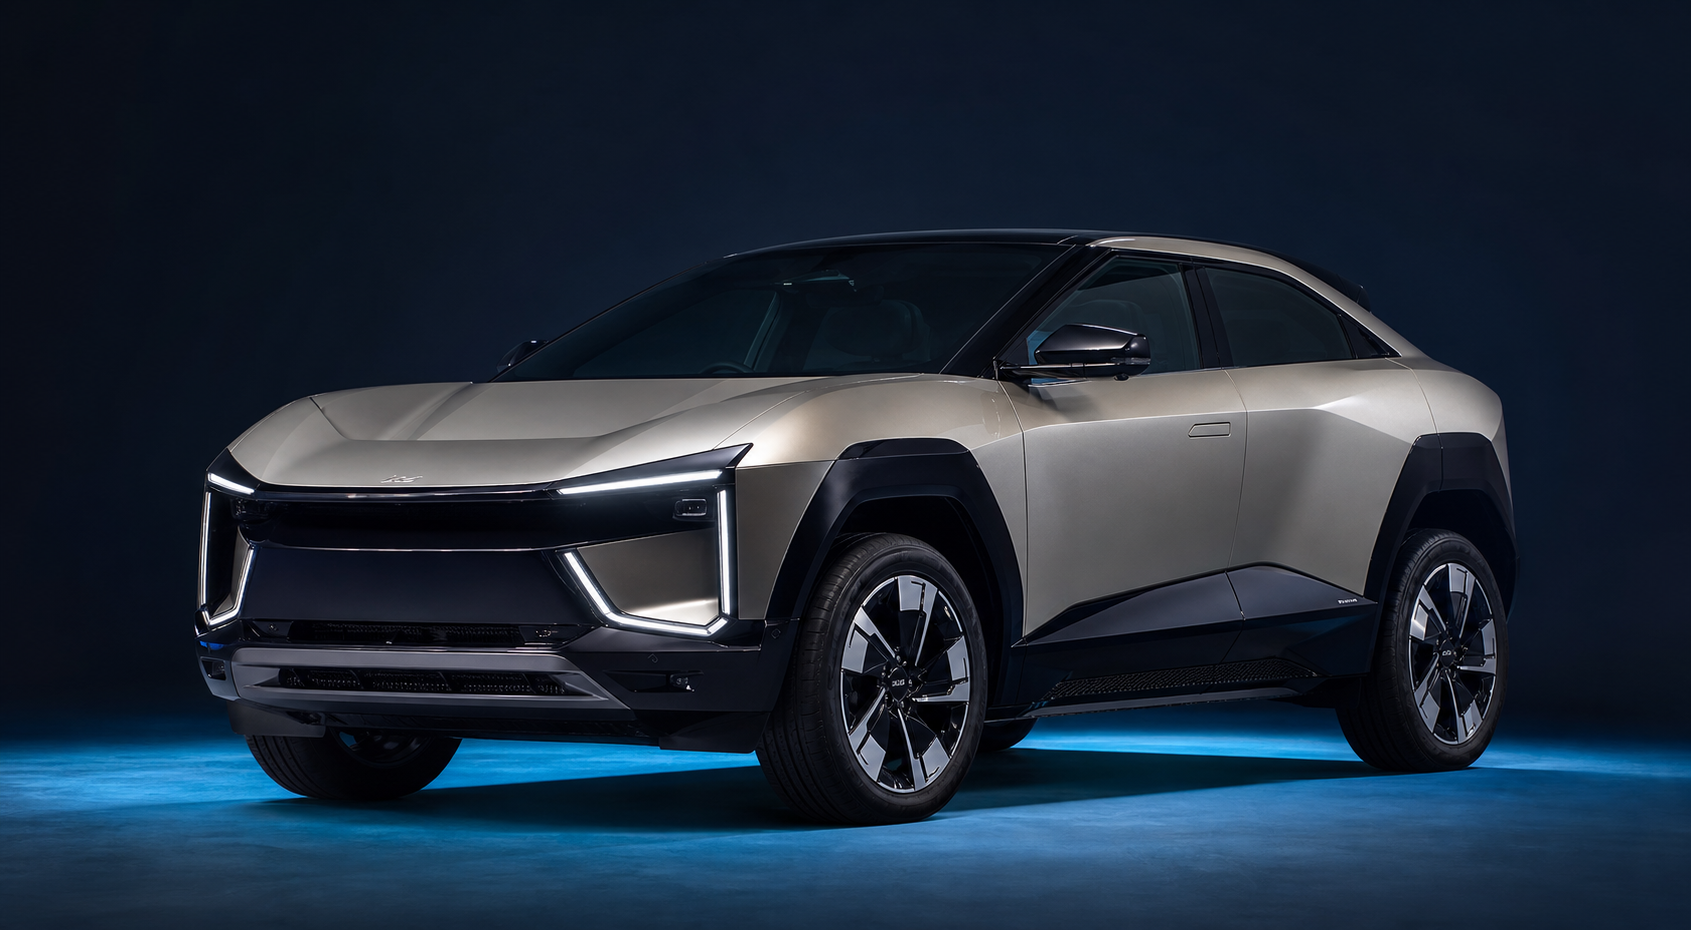
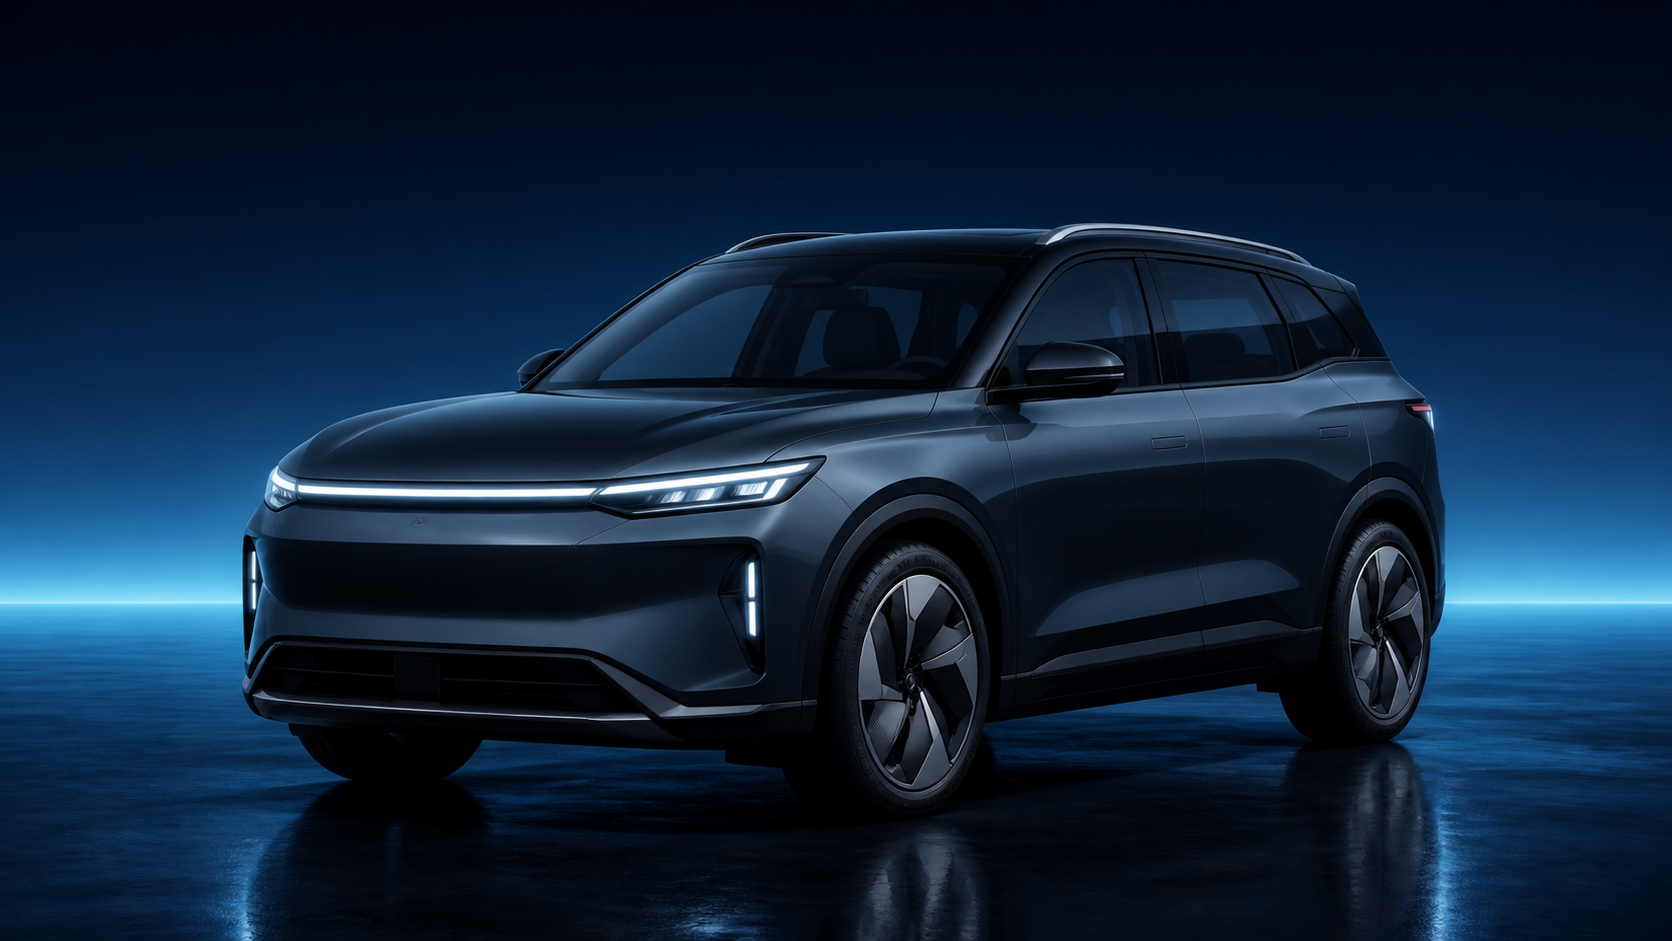
Use copyright-safe PlugV EV concept visuals

diff --git a/app/vehicles/[slug]/page.tsx b/app/vehicles/[slug]/page.tsx
@@ -17,7 +17,7 @@ import SiteHeader from "@/components/home/SiteHeader";
 import SiteFooter from "@/components/home/SiteFooter";
 import TrustSummary from "@/components/vehicles/TrustSummary";
 import { vehicles } from "@/data/vehicles";
-import { getVehicleImage } from "@/data/vehicle-images";
+import { getVehicleVisual } from "@/data/vehicle-images";
 import { getCompareInsights } from "@/lib/compare/compareEngine";
 import { absoluteUrl, safeJsonLd } from "@/lib/seo";
 
@@ -32,8 +32,6 @@ export async function generateMetadata({ params }: PageProps): Promise<Metadata>
 
   const title = `${vehicle.brand} ${vehicle.name} Price, Range & Specs`;
   const description = `Explore ${vehicle.brand} ${vehicle.name} price in India, claimed range, available specifications and comparison tools on PlugV.`;
-  const image = getVehicleImage(vehicle.slug);
-
   return {
     title,
     description,
@@ -43,7 +41,7 @@ export async function generateMetadata({ params }: PageProps): Promise<Metadata>
       title,
       description,
       url: `/vehicles/${vehicle.slug}`,
-      images: image ? [image] : ["/images/hero/plugv-compare-hero.webp"],
+      images: ["/images/hero/plugv-compare-hero.webp"],
     },
   };
 }
@@ -125,7 +123,8 @@ export default async function VehicleDetailPage({ params }: PageProps) {
     .slice(0, 3);
 
   const accent = accentFor(`${vehicle.brand}-${vehicle.name}`);
-  const vehicleImage = getVehicleImage(vehicle.slug);
+  const vehicleVisual = getVehicleVisual(vehicle.slug);
+  const vehicleImage = vehicleVisual.src;
   const compareInsights = getCompareInsights(vehicles);
   const vehicleSchema = {
     "@context": "https://schema.org",
@@ -135,7 +134,6 @@ export default async function VehicleDetailPage({ params }: PageProps) {
     category: `Electric ${vehicle.type}`,
     description: `${vehicle.brand} ${vehicle.name} electric vehicle in India with ${vehicle.range ?? "range information"}.`,
     url: absoluteUrl(`/vehicles/${vehicle.slug}`),
-    image: vehicleImage ? absoluteUrl(vehicleImage) : undefined,
     additionalProperty: [
       { "@type": "PropertyValue", name: "Claimed range", value: vehicle.range ?? "Not listed" },
       { "@type": "PropertyValue", name: "Price", value: vehicle.price ?? "Not listed" },
@@ -279,7 +277,7 @@ export default async function VehicleDetailPage({ params }: PageProps) {
                 {vehicleImage ? (
                   <Image
                     src={vehicleImage}
-                    alt={`${vehicle.brand} ${vehicle.name} electric vehicle`}
+                    alt={`PlugV concept visual representing the ${vehicle.type} category; actual ${vehicle.brand} ${vehicle.name} may differ`}
                     fill
                     priority
                     sizes="(min-width: 1024px) 48vw, 100vw"
@@ -290,7 +288,7 @@ export default async function VehicleDetailPage({ params }: PageProps) {
                 <div className="absolute inset-0 bg-[linear-gradient(135deg,rgba(255,255,255,0.08)_1px,transparent_1px),linear-gradient(225deg,rgba(255,255,255,0.08)_1px,transparent_1px)] bg-[size:26px_26px] opacity-15" />
 
                 <div className="absolute left-6 top-6 rounded-full border border-white/10 bg-slate-950/55 px-3 py-1 text-[11px] font-semibold uppercase tracking-[0.22em] text-slate-200 backdrop-blur">
-                  Spotlight vehicle
+                  PlugV concept · Actual vehicle may differ
                 </div>
 
                 <div className="absolute inset-x-0 bottom-6 px-6">

diff --git a/app/compare/page.tsx b/app/compare/page.tsx
@@ -467,7 +467,7 @@ function CompareContent() {
                   >
                     <Image
                         src={vehicleVisual.src}
-                        alt={`${vehicle.brand} ${vehicle.name} electric vehicle`}
+                        alt={`PlugV concept visual representing the ${vehicle.type} category; actual ${vehicle.brand} ${vehicle.name} may differ`}
                         fill
                         sizes="(min-width: 1024px) 50vw, 100vw"
                         className="object-cover"
@@ -477,7 +477,7 @@ function CompareContent() {
                     <div className="absolute left-6 top-6 rounded-full border border-white/10 bg-slate-950/55 px-3 py-1 text-[11px] font-semibold uppercase tracking-[0.22em] text-slate-200 backdrop-blur">
                       {side}
                     </div>
-                    {!vehicleVisual.modelSpecific ? <div className="absolute right-6 top-6 rounded-full border border-amber-300/20 bg-slate-950/70 px-3 py-1 text-[10px] font-semibold uppercase tracking-[0.14em] text-amber-100 backdrop-blur">Illustrative visual</div> : null}
+                    {vehicleVisual.plugvConcept ? <div className="absolute right-6 top-6 rounded-full border border-sky-300/20 bg-slate-950/70 px-3 py-1 text-[10px] font-semibold uppercase tracking-[0.12em] text-sky-100 backdrop-blur">PlugV concept · Actual may differ</div> : null}
 
                     <div className="absolute inset-x-0 bottom-6 px-6">
                       <div className="rounded-[1.5rem] border border-white/10 bg-slate-950/55 p-5 backdrop-blur">

diff --git a/components/vehicles/VehicleGrid.tsx b/components/vehicles/VehicleGrid.tsx
@@ -56,7 +56,7 @@ function VehicleCard({
       <div className={`relative h-[320px] overflow-hidden bg-gradient-to-br ${accent}`}>
         <Image
             src={vehicleVisual.src}
-            alt={`${vehicle.brand} ${vehicle.name} electric vehicle`}
+            alt={`PlugV concept visual representing the ${vehicle.type} category; actual ${vehicle.brand} ${vehicle.name} may differ`}
             fill
             sizes="(min-width: 1024px) 33vw, (min-width: 640px) 50vw, 100vw"
             className="object-cover transition duration-700 group-hover:scale-[1.035]"
@@ -68,7 +68,7 @@ function VehicleCard({
           #{index + 1} pick
         </div>
 
-        {!vehicleVisual.modelSpecific ? <div className="absolute right-6 top-6 rounded-full border border-amber-300/20 bg-slate-950/70 px-3 py-1 text-[10px] font-semibold uppercase tracking-[0.14em] text-amber-100 backdrop-blur">Illustrative visual</div> : null}
+        {vehicleVisual.plugvConcept ? <div className="absolute right-6 top-6 rounded-full border border-sky-300/20 bg-slate-950/70 px-3 py-1 text-[10px] font-semibold uppercase tracking-[0.12em] text-sky-100 backdrop-blur">PlugV concept · Actual may differ</div> : null}
 
         {tripProfile && vehicleVisual.modelSpecific ? <div className="absolute right-6 top-6 inline-flex items-center gap-1.5 rounded-full border border-emerald-300/20 bg-emerald-400/15 px-3 py-1 text-[10px] font-semibold uppercase tracking-[0.16em] text-emerald-100 backdrop-blur"><BadgeCheck className="h-3.5 w-3.5" />Official specs</div> : null}
 

diff --git a/data/vehicle-images.ts b/data/vehicle-images.ts
@@ -1,20 +1,16 @@
-const vehicleImages: Record<string, string> = {
-  "mahindra-be-6": "/images/vehicles/mahindra-be-6.png",
-  "tata-punch-ev": "/images/vehicles/tata-punch-ev.png",
-  "hyundai-creta-electric": "/images/vehicles/hyundai-creta-electric.png",
-  "tata-nexon-ev": "/images/vehicles/tata-nexon-ev.png",
-  "mg-windsor-ev": "/images/vehicles/mg-windsor-ev.png",
-  "tesla-model-y": "/images/vehicles/tesla-model-y.png",
-};
+const COMPACT_EV_SLUGS = new Set(["tata-tiago-ev", "mg-comet-ev", "vayve-mobility-eva"]);
+const SEDAN_EV_SLUGS = new Set(["bmw-i7", "byd-seal"]);
+const MPV_EV_SLUGS = new Set(["mg-windsor-ev", "kia-carens-clavis-ev", "mg-m9", "vinfast-vf-mpv-7"]);
+const ROADSTER_EV_SLUGS = new Set(["mg-cyberster"]);
 
 export function getVehicleImage(slug: string) {
-  return vehicleImages[slug] ?? null;
+  if (COMPACT_EV_SLUGS.has(slug)) return "/images/vehicles/plugv-concept-compact.png";
+  if (SEDAN_EV_SLUGS.has(slug)) return "/images/vehicles/plugv-concept-sedan.png";
+  if (MPV_EV_SLUGS.has(slug)) return "/images/vehicles/plugv-concept-mpv.png";
+  if (ROADSTER_EV_SLUGS.has(slug)) return "/images/vehicles/plugv-concept-roadster.png";
+  return "/images/vehicles/plugv-concept-suv.png";
 }
 
 export function getVehicleVisual(slug: string) {
-  const modelImage = getVehicleImage(slug);
-  return {
-    src: modelImage ?? "/images/vehicles/plugv-generic-ev-visual.webp",
-    modelSpecific: Boolean(modelImage),
-  };
+  return { src: getVehicleImage(slug), modelSpecific: false, plugvConcept: true };
 }
